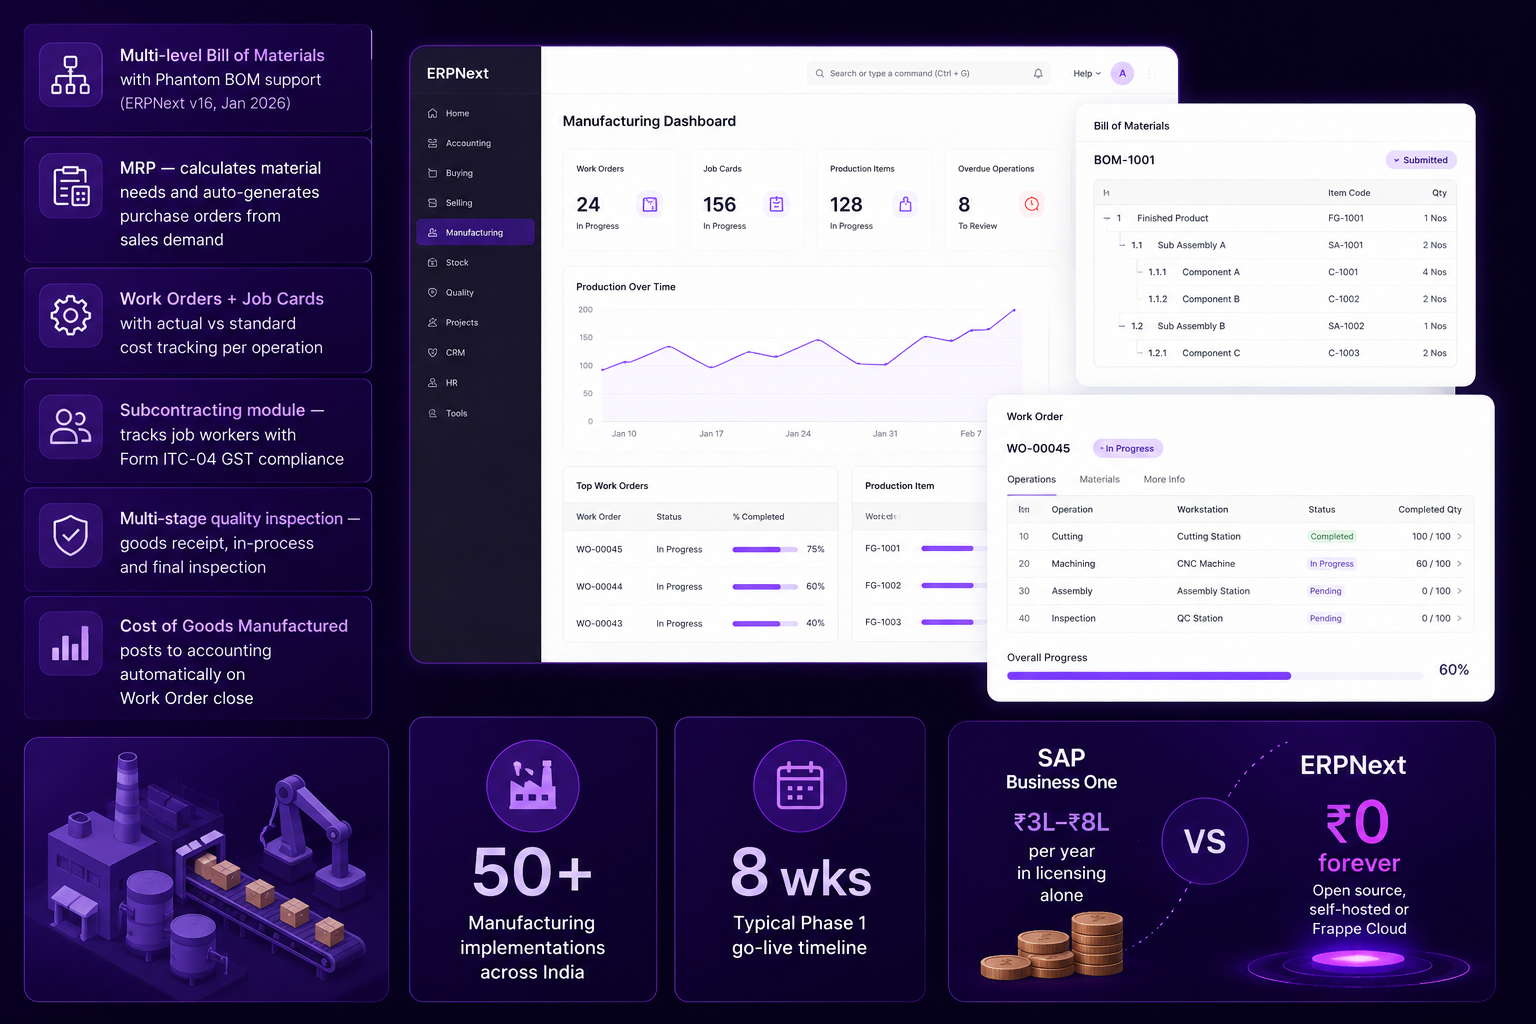
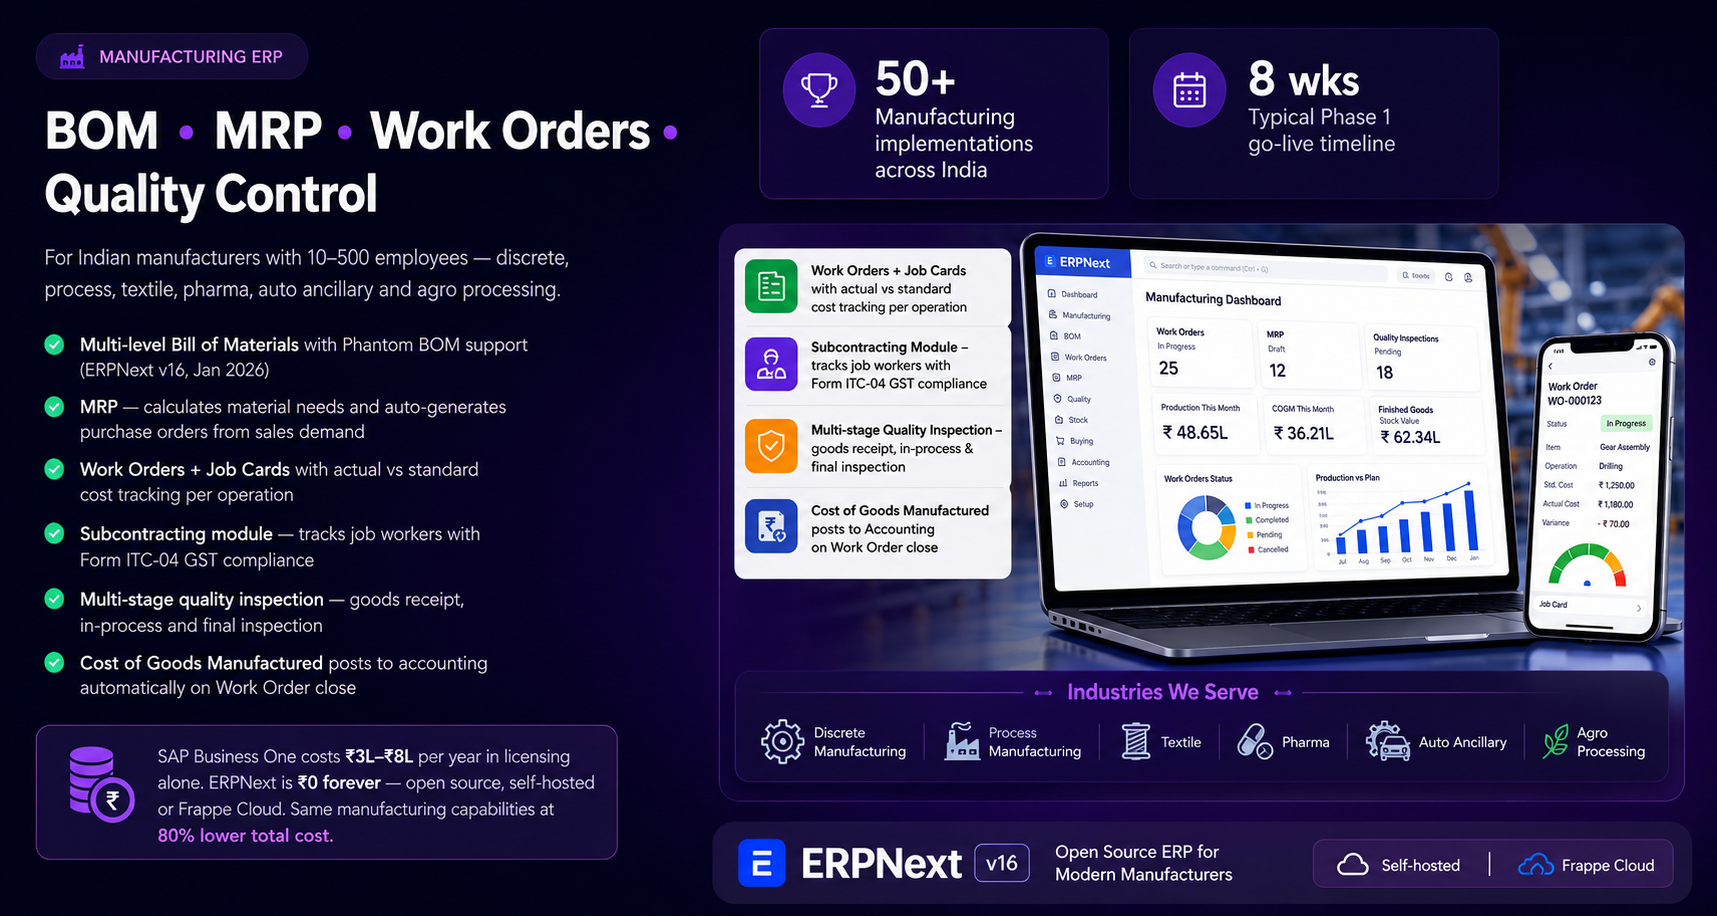
reduced space left and right space - 1st 2 sections & book free consultation sections

diff --git a/psdigitise-homepage-redesign (8).html b/psdigitise-homepage-redesign (8).html
@@ -280,9 +280,9 @@
     /* ── WRAPPER FIX: was max-width:1200px + padding:0 16px ── */
     .W {
       width: 100%;
-      max-width: 1600px;
+      max-width: 1800px;
       margin: 0 auto;
-      padding: 0 40px;
+      padding: 0 15px;
     }
 
     /* NAV */
@@ -387,7 +387,7 @@
     /* HERO */
     .hero {
       min-height: auto;
-      padding: 120px 48px 40px;
+      padding: 120px 15px 40px;
       display: flex;
       flex-direction: column;
       align-items: center;
@@ -1475,7 +1475,7 @@
 
     /* CTA */
     .cta-section {
-      padding: 60px 48px;
+      padding: 60px 15px;
       text-align: center;
       background: linear-gradient(135deg, var(--p700), rgba(45, 15, 106, .9), rgba(192, 38, 211, .15));
       border-top: 1px solid var(--line);
